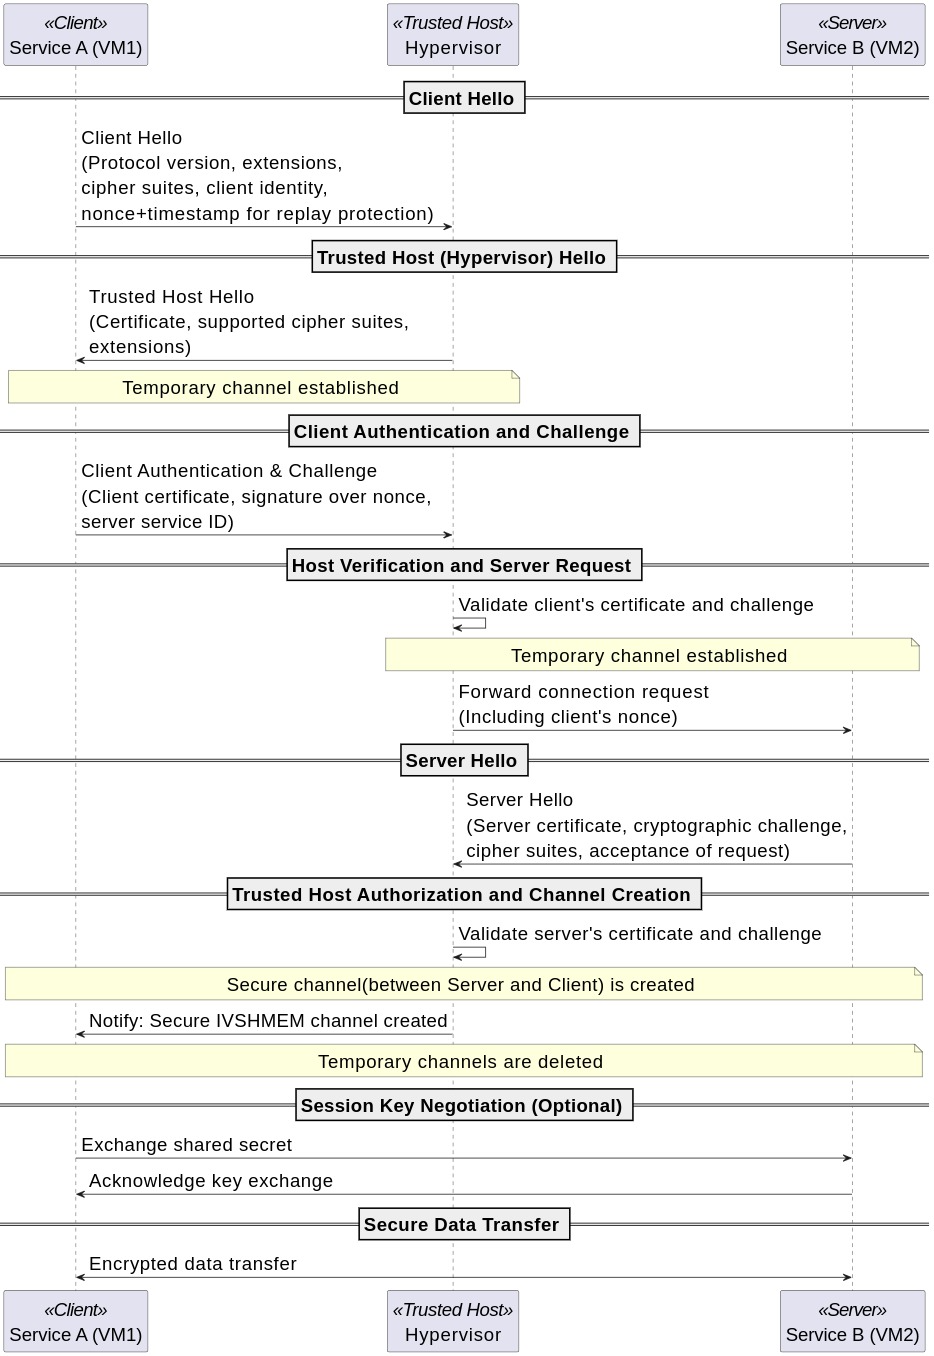
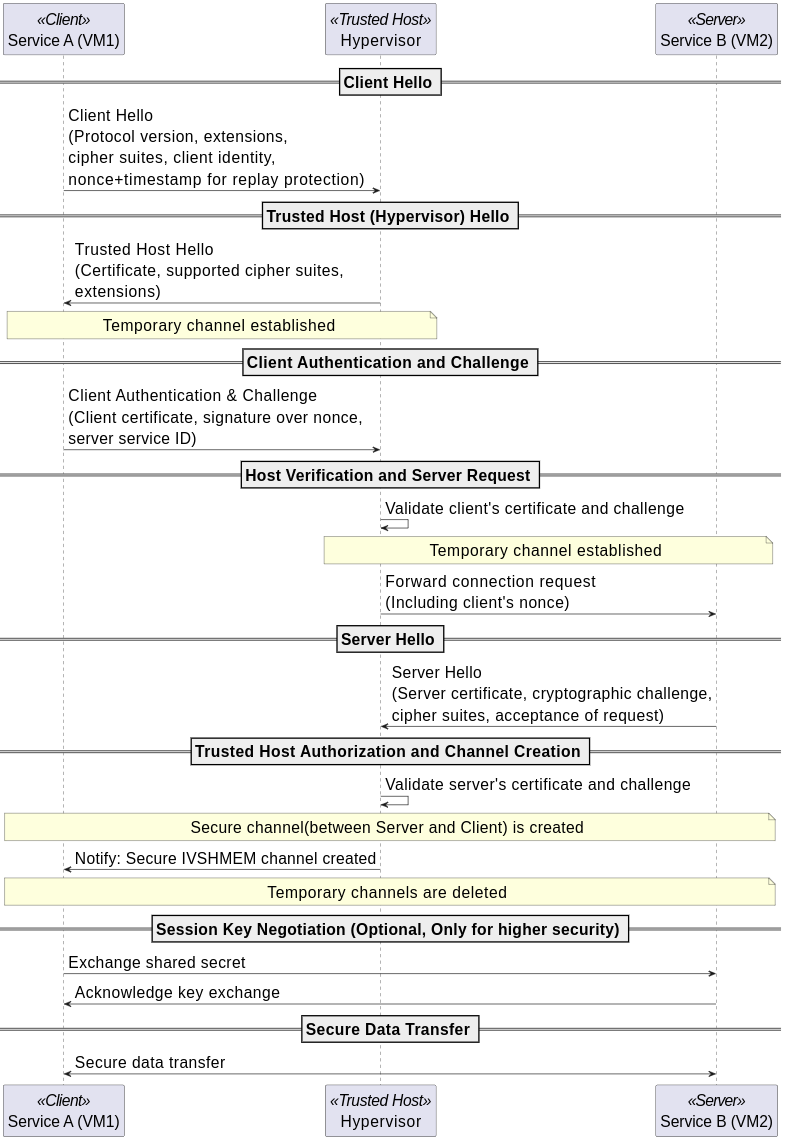
[fix] fix handshake protocol image

diff --git a/assets/idf/secure_ivshmem.md b/assets/idf/secure_ivshmem.md
@@ -12,18 +12,15 @@ Intel IA Korea
 
 ## 3. Resubmision Responses:
 
-
 N/A
 
 ## 4. Techonlogy Background
 
 
 
-### Introduction to Virtualization Technology
+### Virtualization in the Automotive Industry
 Virtualization refers to a technology that allows a single physical computing resource to run multiple isolated environments by abstracting hardware from the software. A hypervisor abstracts the underlying hardware so that multiple VMs (Virtual Machines) share the same physical resources while remaining isolated from each other.
 
-
-### Virtualization in the Automotive Industry
 One of the fields that virtualization is actively used is the automotive industry. The advances in semiconductors have shifted system architectures from traditional microcontrollers(MCUs) to powerful System-on-Chip(SoC). This evolution not only enhances computational capabilities but also paves the way for Software-Defined Vehicles (SDVs), where flexibility, scalability, and rapid updates are paramount. In SDVs, virtualization technology plays a crucial role by enabling the coexistence of multiple VMs on a single hardware platform, ensuring isolated yet efficient execution of diverse applications. For example, modern cockpit domain controllers often deploy separate VMs for real-time operations (RTOS) and infotainment systems, which is essential for balancing performance and safety.
 
 
@@ -68,9 +65,11 @@ To prevent unauthorized access, we partition the shared memory into multiple seg
 To mitigate performance degradation caused by static partitioning, we propose a dynamic allocation mechanism that allows shared memory channels to be allocated and resized based on real-time usage. This ensures that resources are utilized efficiently without compromising security. However, dynamic partitioning introduces two major challenges:
 
   * Challenge 1: Secure Channel Establishment
+
   How can two services securely establish a communication channel without being vulnerable to spoofing attacks?
 
   * Challenge 2: Preventing Unauthorized Access
+
   How can we ensure that a malicious service within a VM does not gain unauthorized access to dynamically allocated partitions?
 
 
@@ -83,7 +82,7 @@ To establish a secure communication channel between two endpoints, we introduce 
 
 
 2. Granular Access Control via Kernel Module:
-To enforce fine-grained access control over dynamically allocated partitions, we implement a kernel module that regulates access permissions at the memory region level. This mechanism ensures that only authorized services can read or write to allocated channels, effectively mitigating unauthorized access risks.
+To enforce fine-grained access control over dynamically allocated partitions, we implement a kernel module that regulates access permissions at the memory region level. This mechanism ensures that only authorized services can read or write to allocated channels, effectively mitigating unauthorized access risks. This blocks malicious access to memory regions, such as eavedropping, without the overhead of data encryption.
 
 3. Channel Rebalancing for Performance Optimization:
 To balance security and performance, we integrate a channel rebalancing mechanism that dynamically adjusts the size of shared memory channels based on real-time communication demands. This approach prevents performance degradation due to excessive partitioning while maintaining strong security guarantees.
@@ -163,10 +162,10 @@ The added abstraction layer may also introduce security vulnerabilities if not p
 **References:**
 
 
-[SIVSHM](https://arxiv.org/pdf/1909.10377#:~:text=both%20security%20and%20better%20throughout,exchange%20of%20eventfds%20amongst%20VMs)
-[Grant Table](https://wiki.xenproject.org/wiki/Grant_Table#:~:text=Each%20domain%20has%20its%20own,operations%20on%20the%20granter%E2%80%99s%20memory)
-[Xen Loop](https://dl.acm.org/doi/10.1145/1383422.1383437)
-[Mempipe](https://ieeexplore.ieee.org/document/7416013)
+- [SIVSHM](https://arxiv.org/pdf/1909.10377#:~:text=both%20security%20and%20better%20throughout,exchange%20of%20eventfds%20amongst%20VMs)
+- [Grant Table](https://wiki.xenproject.org/wiki/Grant_Table#:~:text=Each%20domain%20has%20its%20own,operations%20on%20the%20granter%E2%80%99s%20memory)
+- [Xen Loop](https://dl.acm.org/doi/10.1145/1383422.1383437)
+- [Mempipe](https://ieeexplore.ieee.org/document/7416013)
 
 
 
@@ -175,7 +174,7 @@ The added abstraction layer may also introduce security vulnerabilities if not p
 
 ### 5.1 Short Summary – In 1-3 sentences, describe the core of your solution
 
-We offer a library and kernel module that secure IVSHMEM communication by isolating channels and implementing a secure handshake protocol. Additionally, we reduce performance overhead through dynamic allocation of partitioned regions.
+We propose a communication protocol that secure IVSHMEM communication by isolating communication channels and implementing a secure handshake protocol. This ensures end-to-end data protection in shared memory regions without introducing encryption overhead. Additionally, we reduce the performance overhead caused by partitioned buffers through the dynamic allocation of partitioned regions.
 
 
 ### 5.2 Advantages – In 1-3 sentences, describe the value of the invention to Intel or to our customers.
@@ -204,8 +203,8 @@ implementation
 #### B. If there are visual inspection and/or reverse engineering techniques that can be used to identify the feature, please describe them.
 
 
-Code is going to be opened to all customers with liscence
-anyone customer can access and easily inspect this code and protocol with the restriction of liscence
+Code is going to be opened to all customers with the liscence.
+Anyone can access and easily inspect this code and protocol under the restriction of the liscence
 
 #### C. If documentation such as product literature would show usage of the invention, please let us know what to look for in that regard.
 
@@ -230,7 +229,7 @@ anyone customer can access and easily inspect this code and protocol with the re
 
 #### Service-based Channel Separation
 
-Our design divides the IVSHMEM architecture into two primary sections: the **Control Section** and **the Data Section**. The Control Section is a fixed-size region where a trusted host stores dynamic configurations related to data allocation, while the Data Section is where virtual machines (VMs) actually read and write data through their assigned channels. Importantly, only the trusted host has permission to modify data in the Control Section, and each VM is restricted to reading and writing only to its designated channels within the Data Section.
+Our design divides the IVSHMEM architecture into two primary sections: the **Control Section** and the **Data Section**. The Control Section is a fixed-size region where a trusted host stores dynamic configurations related to data allocation, while the Data Section is where virtual machines (VMs) actually read and write data through their assigned channels. Importantly, only the trusted host has permission to modify data in the Control Section, and each VM is restricted to reading and writing only to its designated channels within the Data Section.
 
 
 The **Data Section** comprises multiple channels, with each channel serving as a dedicated buffer space for a specific server and client service pair. For each pair, a dedicated channel is allocated, and the Control Section dynamically adjusts its size based on the activation of channels.
@@ -395,7 +394,7 @@ The detailed handshake protocol steps are provided below, demonstrating the secu
      - The trusted host creates a communication channel for the server and client and notifies the client.  
      - The trusted host deletes temporary channels previously established with both the client and the server.  
 
-7. **Session Key Negotiation (Optional):**  
+7. **Session Key Negotiation (Optional, Only for higher security):**  
    - **Purpose:** Finalize the authentication process and derive session keys.  
    - **Actions:** The client and server use the provided ephemeral Diffie-Hellman values to compute a shared secret. 
 
@@ -405,25 +404,6 @@ The detailed handshake protocol steps are provided below, demonstrating the secu
      - For long-lived sessions, incorporate periodic key renegotiation to limit key exposure.  
    - **Session Resumption:**  
      - Implement mechanisms (similar to TLS session tickets) for efficient session resumption without repeating the full handshake process.  
-
-
-<!-- handshake end -->
-
-
-\subsection{A Design for Performant Data Transfer}
-
-\subsubsection{Dynamic Channel Rebalancing}
-
-blah blah blah
-
-\subsubsection{Lock-free Data Transfer}
-
-blah blah blah
-
-\subsubsection{Bi-directional Ring Buffer}
-
-blah blah blah
-
 
 
 
